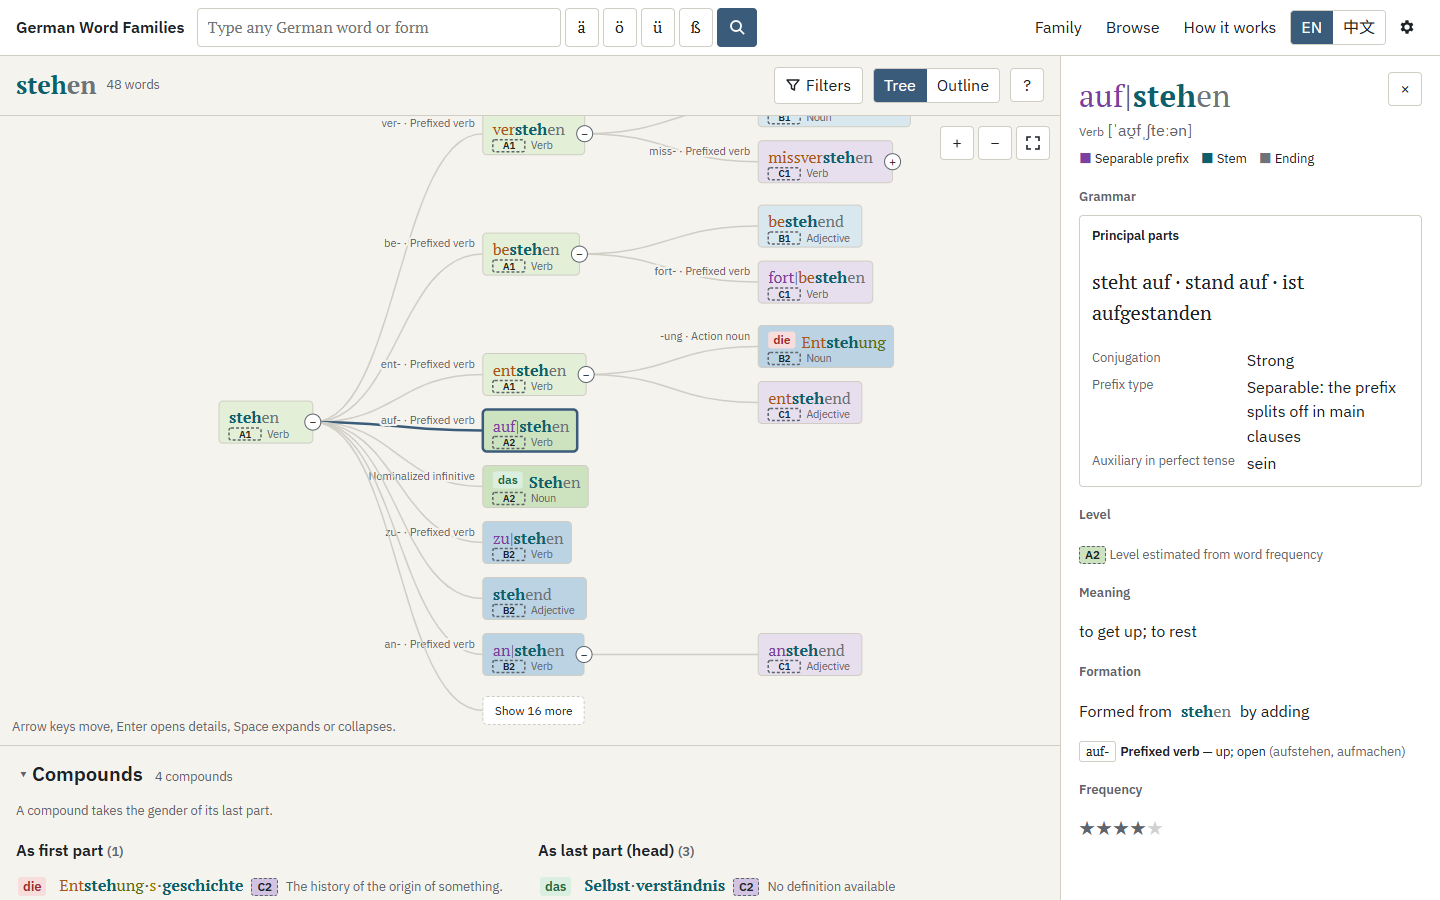
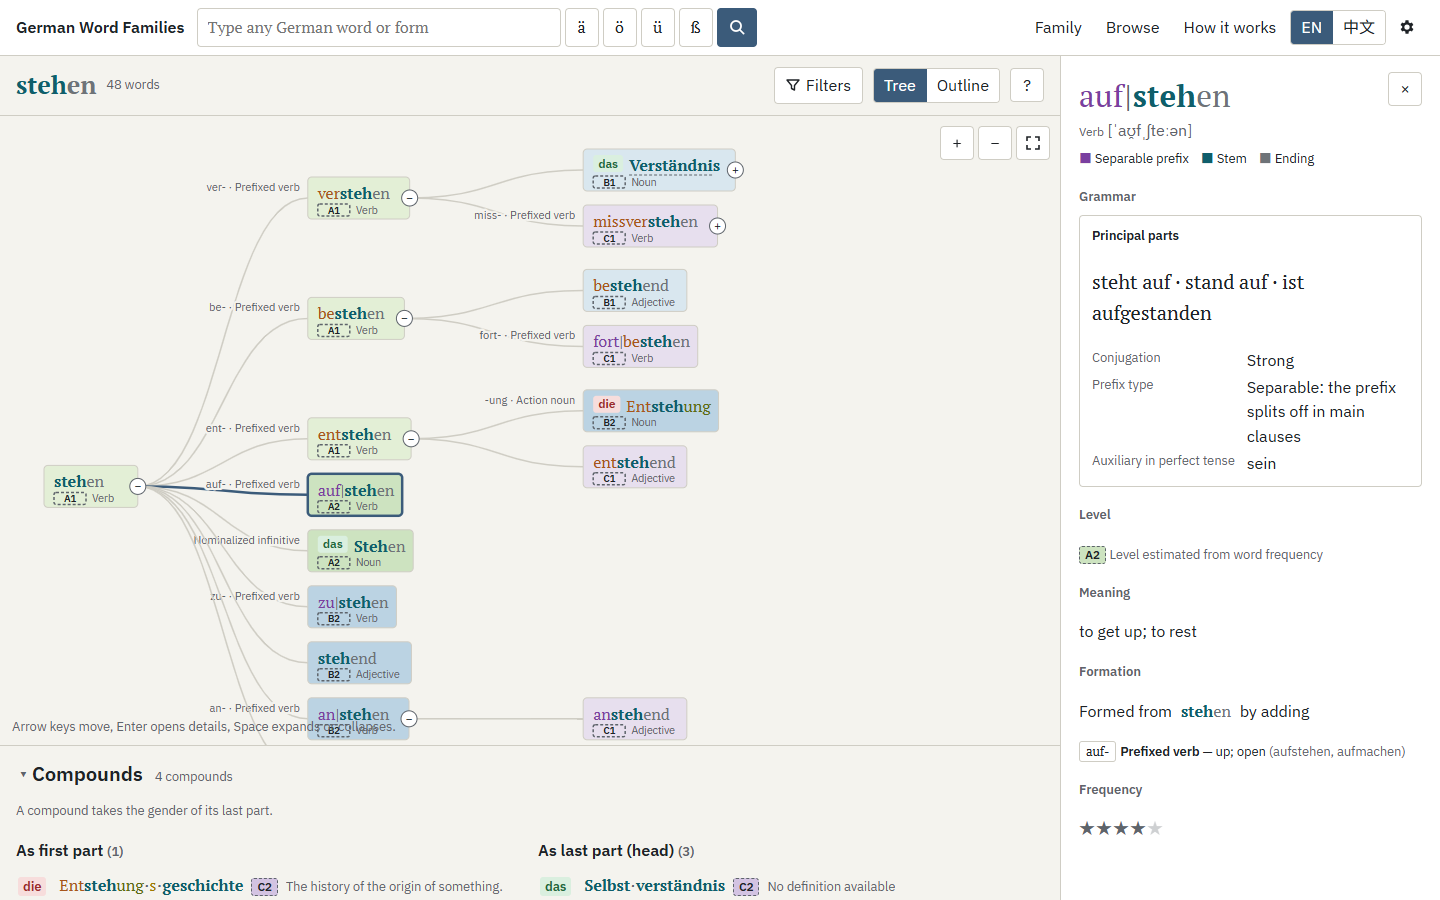
feat(web): open the tree at the top-left of the canvas instead of centring

diff --git a/web/src/components/FamilyTree.tsx b/web/src/components/FamilyTree.tsx
@@ -172,16 +172,38 @@ export function FamilyTree(props: TreeViewProps) {
     [layout],
   );
 
-  // initial view: centre the focused word, otherwise fit when small or show the root
+  /**
+   * Initial view: the tree's top-left corner sits at the top-left of the canvas
+   * (just below the family title) at 100 %. If the focused word would be off
+   * screen, shift only as far as needed to show it — no centring.
+   */
+  const alignTopLeft = useCallback(
+    (keepVisible: string | null) => {
+      const svg = svgRef.current;
+      const z = zoomRef.current;
+      if (!svg || !z) return;
+      const { width, height } = svg.getBoundingClientRect();
+      const b = layout.bounds;
+      let tx = 24 - b.minX;
+      let ty = 12 - b.minY;
+      const f = keepVisible ? layout.byId.get(keepVisible) : undefined;
+      if (f) {
+        const margin = 48;
+        if (f.x + f.w + tx > width - margin) tx = width - margin - (f.x + f.w);
+        if (f.y + NODE_H / 2 + ty > height - margin) ty = height - margin - (f.y + NODE_H / 2);
+      }
+      animateTo(svg, z, zoomIdentity.translate(tx, ty), 0);
+    },
+    [layout],
+  );
+
   const didInit = useRef<string | null>(null);
   useLayoutEffect(() => {
     const key = `${model.family.id}:${focusId}`;
     if (didInit.current === key) return;
     didInit.current = key;
-    if (focusId && layout.byId.has(focusId)) centerOn(focusId, false);
-    else if (layout.boxes.length <= 12) fit();
-    else centerOn(model.rootId, false);
-  }, [model, focusId, layout, centerOn, fit]);
+    alignTopLeft(focusId && layout.byId.has(focusId) ? focusId : null);
+  }, [model, focusId, layout, alignTopLeft]);
 
   // ------------------------------------------------------------- keyboard
   const order = useMemo(() => flattenVisible(visible).filter((v) => v.kind === 'word' || v.kind === 'more'), [visible]);

diff --git a/web/src/styles.css b/web/src/styles.css
@@ -212,7 +212,7 @@ h2 { font-size: var(--fs-lg); margin: 24px 0 8px; font-weight: 600; }
 .tree-svg:focus { outline: none; }
 .tree-svg:focus-visible { outline: 2px solid var(--accent); outline-offset: -2px; }
 .tree-tools { position: absolute; right: 10px; top: 10px; display: flex; gap: 4px; z-index: 2; }
-.tree-hint { position: absolute; left: 12px; bottom: 8px; margin: 0; }
+.tree-hint { position: absolute; left: 12px; bottom: 8px; margin: 0; background: var(--bg); padding: 0 4px; border-radius: 3px; pointer-events: none; }
 .detail-panel { border-left: 1px solid var(--line); background: var(--surface); overflow: auto; max-height: calc(100vh - 53px); position: sticky; top: 53px; }
 
 /* tree nodes (SVG) */
